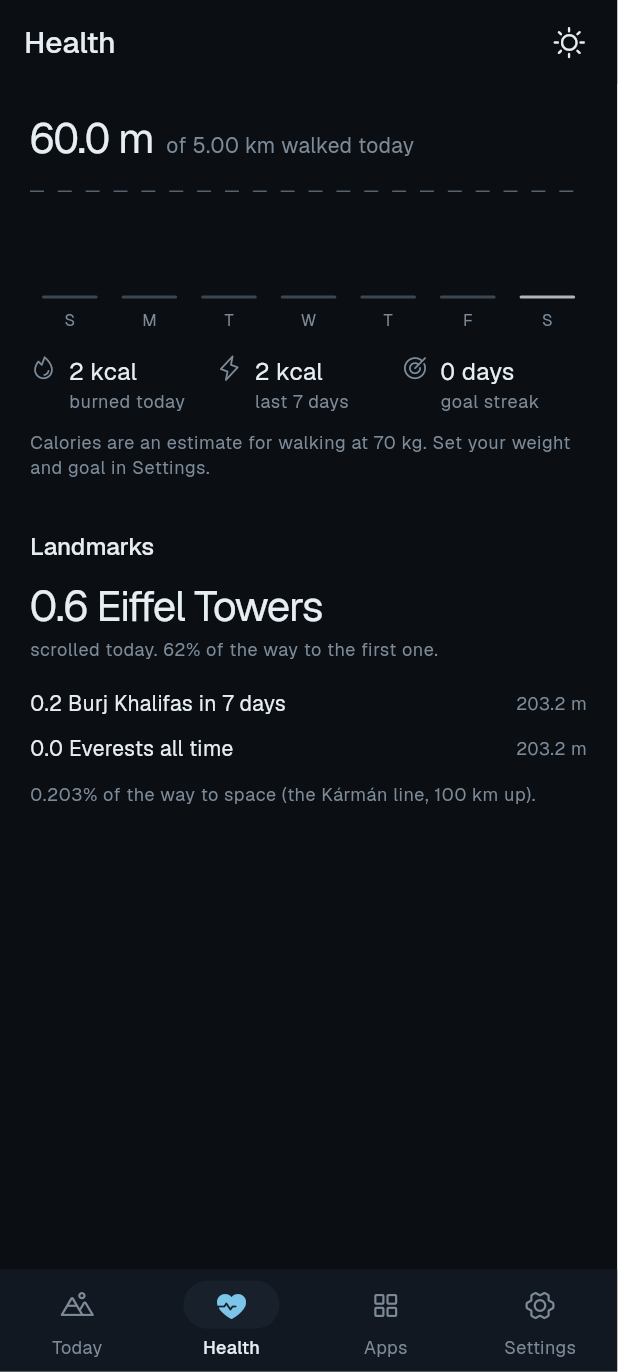
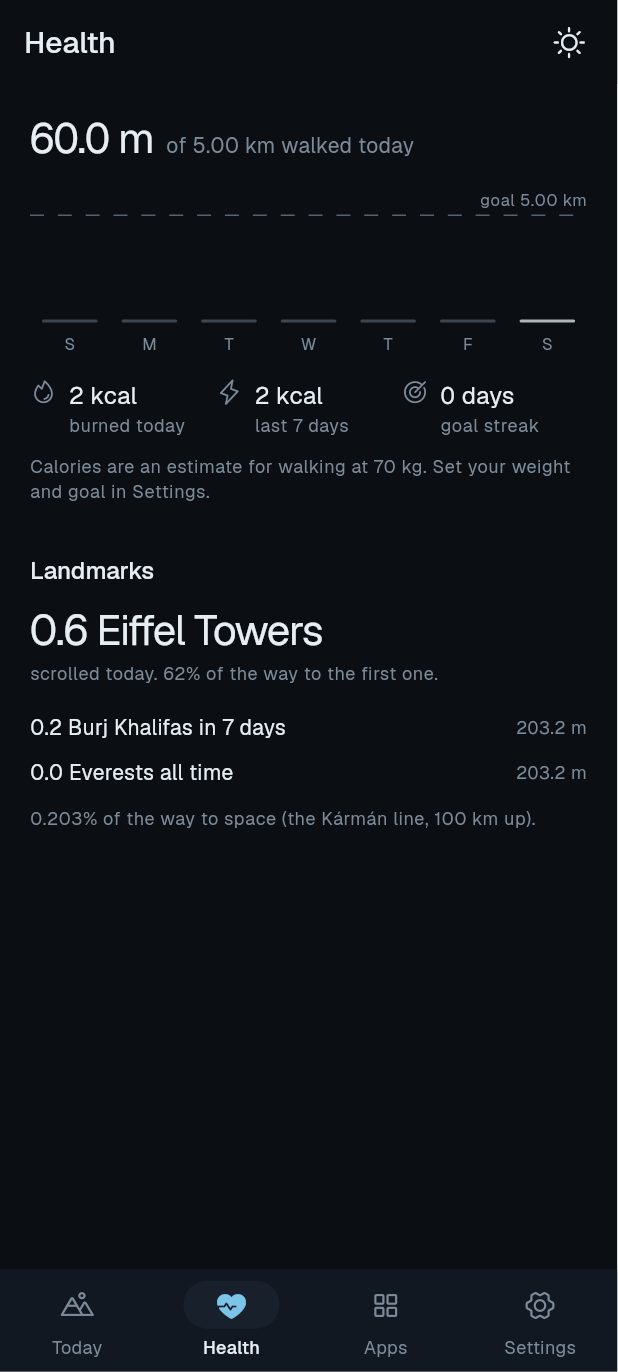
Health chart: stop clipping the goal label
The goal label sat above the chart's box whenever the goal was the
week's peak, so the default view never showed it.

Claude-Session: https://claude.ai/code/session_01VuuPe1ZfiaRus7cUJhEEFG

diff --git a/lib/ui/home_screen.dart b/lib/ui/home_screen.dart
@@ -300,8 +300,9 @@ class _Health extends StatelessWidget {
       ),
       const SizedBox(height: 16),
       // Seven days, oldest left. The dashed line is the daily goal.
+      // 72 px of bars + 20 px of day labels + headroom for the goal label.
       SizedBox(
-        height: 96,
+        height: 112,
         child: LayoutBuilder(builder: (context, box) {
           final goalY = peak <= 0 ? 0.0 : 72 * goal / peak;
           return Stack(children: [
